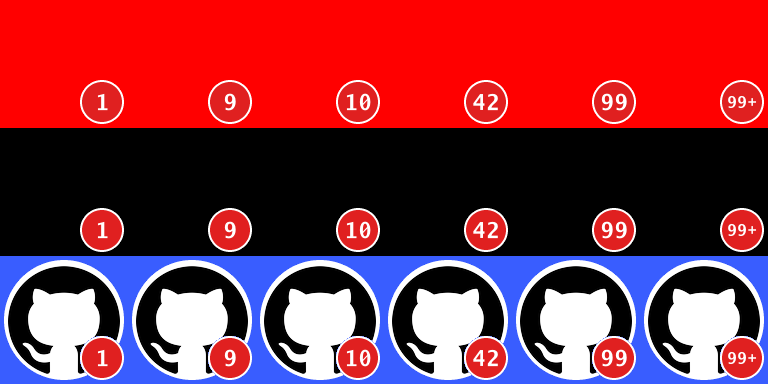
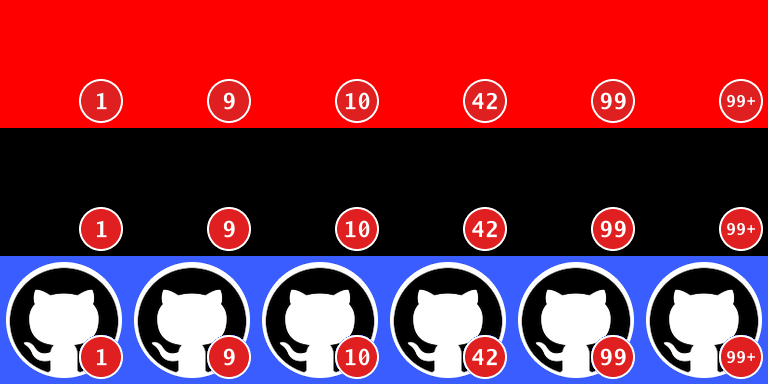
Make the round radius 58 and put the pip sprite 5 px from the corner
iconRoundRadius is 58; pipMargin and the firmware's PIP_MARGIN are 5, so the
pip keeps about 6 px inside the round's edge. TestIconRound now checks that
no solid icon pixel lies outside the round and that github.png and create.png
keep 3 px of white round. Goldens and the pip box in the firmware tests
follow. Reflash the board for the new pip place. Task 0069, part 2.

diff --git a/test/test_app.py b/test/test_app.py
@@ -2191,7 +2191,7 @@ def test_a_show_with_pips_stamps_the_pip_on_a_copy_and_leaves_the_slot_unchanged
         differs = 0
         for y in range(128):
             for x in range(128):
-                inside = 80 <= x < 124 and 80 <= y < 124
+                inside = 79 <= x < 123 and 79 <= y < 123
                 index = y * 128 + x
                 same = frame[2 * index : 2 * index + 2] == slot_before[2 * index : 2 * index + 2]
                 if not inside:
@@ -2207,9 +2207,9 @@ def test_the_pip_is_the_disc_of_the_slots_color_with_the_digits_of_the_count():
     _show_pips(pad, serial, [7])
     frame = _last_frame(panels.per_key[0])
     assert _panel_pixel(frame, 0, 0) == 0xF800  # the corner shows the key color
-    assert _panel_pixel(frame, 85, 85) == 0x1102  # disc 2 is the one for 0xF800
-    assert _panel_pixel(frame, 80, 80) == 0x07E0  # a transparent disc pixel keeps the slot's
-    assert _panel_pixel(frame, 95, 92) == 0x2207  # one big cell, centred
+    assert _panel_pixel(frame, 84, 84) == 0x1102  # disc 2 is the one for 0xF800
+    assert _panel_pixel(frame, 79, 79) == 0x07E0  # a transparent disc pixel keeps the slot's
+    assert _panel_pixel(frame, 94, 91) == 0x2207  # one big cell, centred
 
     _show_pips(pad, serial, [42], now=3000)
     frame = _last_frame(panels.per_key[0])
@@ -2222,7 +2222,7 @@ def test_a_pip_on_a_color_the_sheet_has_no_disc_for_uses_the_first_disc():
 
     _show_pips(pad, serial, [7])
 
-    assert _panel_pixel(_last_frame(panels.per_key[0]), 85, 85) == 0x1100
+    assert _panel_pixel(_last_frame(panels.per_key[0]), 84, 84) == 0x1100
 
 
 def test_a_pip_count_above_99_draws_99_plus_and_a_count_of_0_shows_the_slot_itself():
@@ -2240,7 +2240,7 @@ def test_a_pip_count_above_99_draws_99_plus_and_a_count_of_0_shows_the_slot_itse
 
     _show_pips(pad, serial, [0], now=4000)
     assert pad.key_states[0]._on_frame is pad._frame_cache.view(3)
-    assert _panel_pixel(_last_frame(panels.per_key[0]), 85, 85) == 0x07E0
+    assert _panel_pixel(_last_frame(panels.per_key[0]), 84, 84) == 0x07E0
 
 
 def test_a_pip_without_sheet_draws_the_slot_with_no_pip():
@@ -2253,7 +2253,7 @@ def test_a_pip_without_sheet_draws_the_slot_with_no_pip():
     _show_pips(pad, serial, [12])
 
     assert pad.key_states[0]._on_frame is pad._frame_cache.view(3)
-    assert _panel_pixel(_last_frame(panels.per_key[0]), 85, 85) == 0x07E0
+    assert _panel_pixel(_last_frame(panels.per_key[0]), 84, 84) == 0x07E0
     assert _show_misses(serial) == []
 
 
@@ -2267,7 +2267,7 @@ def test_a_pip_on_a_frame_with_no_picture_still_draws_and_marks_the_key_as_a_gly
 
     _show_pips(pad, serial, [3])
 
-    assert _panel_pixel(_last_frame(panels.per_key[0]), 85, 85) == 0x1102
+    assert _panel_pixel(_last_frame(panels.per_key[0]), 84, 84) == 0x1102
     assert pad.key_states[0].emoji_id == wire.CUSTOM_GLYPH_SENTINEL_EMOJI_ID
 
 

diff --git a/driver/layers/pip_test.go b/driver/layers/pip_test.go
@@ -160,6 +160,11 @@ func TestPip(t *testing.T) {
 		t.Error("a count of 0 drew a pip")
 	}
 
+	// The firmware lands the sprite at the same place (PIP_MARGIN, task 0069).
+	if got, want := pipDiscRect(), image.Rect(79, 79, 123, 123); got != want {
+		t.Errorf("the pip sprite is at %v, want %v", got, want)
+	}
+
 	draw99 := func(count int) *image.NRGBA {
 		img := blankCanvas()
 		if err := DrawPip(img, ColorDone, count); err != nil {
@@ -229,6 +234,22 @@ func TestIconRound(t *testing.T) {
 		f.Close()
 		if err != nil {
 			t.Fatal(err)
+		}
+		// Task 0069: no solid icon pixel lies outside the round, and the two
+		// icons with a dark disc of their own keep 3 px of white around it.
+		reach := 0.0
+		for y := 0; y < transport.CustomGlyphHeight; y++ {
+			for x := 0; x < transport.CustomGlyphWidth; x++ {
+				if _, _, _, ia := icon.At(x, y).RGBA(); ia >= 0x8000 {
+					reach = math.Max(reach, math.Hypot(float64(x)+0.5-centre, float64(y)+0.5-centre))
+				}
+			}
+		}
+		if reach > iconRoundRadius-0.5 {
+			t.Errorf("%s: a solid pixel lies %.1f px from the centre, past the round of %d", ref, reach, iconRoundRadius)
+		}
+		if (ref == "github.png" || ref == "create.png") && reach > iconRoundRadius-3 {
+			t.Errorf("%s: its dark disc reaches %.1f px, want at most %d to leave 3 px of white round", ref, reach, iconRoundRadius-3)
 		}
 		data, err := renderGlyph(assetsDir, ref, 0, ColorError)
 		if err != nil {

diff --git a/test/test_frame_cache.py b/test/test_frame_cache.py
@@ -184,7 +184,7 @@ def test_a_stamp_with_the_module_equals_a_stamp_on_the_heap_and_leaves_the_slot(
     assert slot_with_module == slot_on_heap
     assert on_heap != slot_on_heap  # the pip is there
     # The disc of 0xF800 is disc 1 of the sheet: its interior value is 0x1101.
-    assert on_heap[(85 * 128 + 85) * 2 : (85 * 128 + 85) * 2 + 2] == _be(0x1101)
+    assert on_heap[(84 * 128 + 84) * 2 : (84 * 128 + 84) * 2 + 2] == _be(0x1101)
 
 
 def test_a_stamp_changes_only_the_pip_box():
@@ -192,7 +192,7 @@ def test_a_stamp_changes_only_the_pip_box():
 
     for y in range(128):
         for x in range(128):
-            if 80 <= x < 124 and 80 <= y < 124:
+            if 79 <= x < 123 and 79 <= y < 123:
                 continue
             i = (y * 128 + x) * 2
             assert stamped[i : i + 2] == slot[i : i + 2]

diff --git a/driver/layers/pip.go b/driver/layers/pip.go
@@ -26,7 +26,7 @@ import (
 const (
 	pipDisc    = 44 // diameter of the disc, ring included
 	pipRing    = 2  // width of the white ring
-	pipMargin  = 4  // distance from the disc to the corner of the panel
+	pipMargin  = 5  // distance from the disc sprite to the corner of the panel; firmware PIP_MARGIN says the same
 	pipBigW    = 14 // cell of a digit of a count up to 99
 	pipBigH    = 20
 	pipSmallW  = 10 // cell of a character of "99+"
@@ -53,8 +53,8 @@ const (
 	pipEdgeMin = 4
 
 	// iconRoundRadius is the radius of the white round behind an icon, in
-	// pixels. It is a first guess; the owner adjusts it on the panel.
-	iconRoundRadius = 60
+	// pixels. Every icon under assets/ lies inside it (task 0069).
+	iconRoundRadius = 58
 )
 
 var (

diff --git a/firmware/display_render.py b/firmware/display_render.py
@@ -151,7 +151,7 @@ def compose_into(frame, scratch, color: int, pixels: bytes) -> None:
 PIP_SHEET_WIDTH = 256
 PIP_SHEET_HEIGHT = 64
 PIP_DISC = 44
-PIP_MARGIN = 4
+PIP_MARGIN = 5
 PIP_BIG_W = 14
 PIP_BIG_H = 20
 PIP_SMALL_W = 10

diff --git a/docs/wire-protocol.md b/docs/wire-protocol.md
@@ -391,8 +391,8 @@ the buffer. It does not change the slot, so a slot never holds a pip, and one
 picture on one color is one slot whatever its count. The pip is the disc for the
 slot's color, or disc `0` when the sheet has none for it, then the characters of
 the count centred on the disc: the big cells for `1` to `99`, and the small `9`,
-`9`, and `+` for `99+`. The disc is at `(80, 80)`, 4 pixels from the bottom-right
-corner of the panel. The characters sit in the middle of it, in cells side by
+`9`, and `+` for `99+`. The sprite lands at `(79, 79)`, 5 px from the bottom-right
+corner of the panel (`PIP_MARGIN` in the firmware, `pipMargin` in `driver/layers/pip.go`). The characters sit in the middle of it, in cells side by
 side with no gap. A key with a count of 0 shows the slot's own frame, as Show
 frames does.
 

diff --git a/driver/README.md b/driver/README.md
@@ -199,7 +199,7 @@ the poller used is not read any more; delete it.
   color. No status blinks.
 - `iconRef` is a PNG under the assets directory, 128×128. A path that is
   absolute or leaves the directory, with `..` or a symbolic link, is
-  rejected. The icon sits on an opaque white round of radius 60
+  rejected. The icon sits on an opaque white round of radius 58
   (`iconRoundRadius`), centred on the key, and the round's edge is blended
   against the key color. Transparent pixels outside the round show the key
   color. If `iconRef` is empty, `icon` is a built-in Emoji ID; firmware has no
